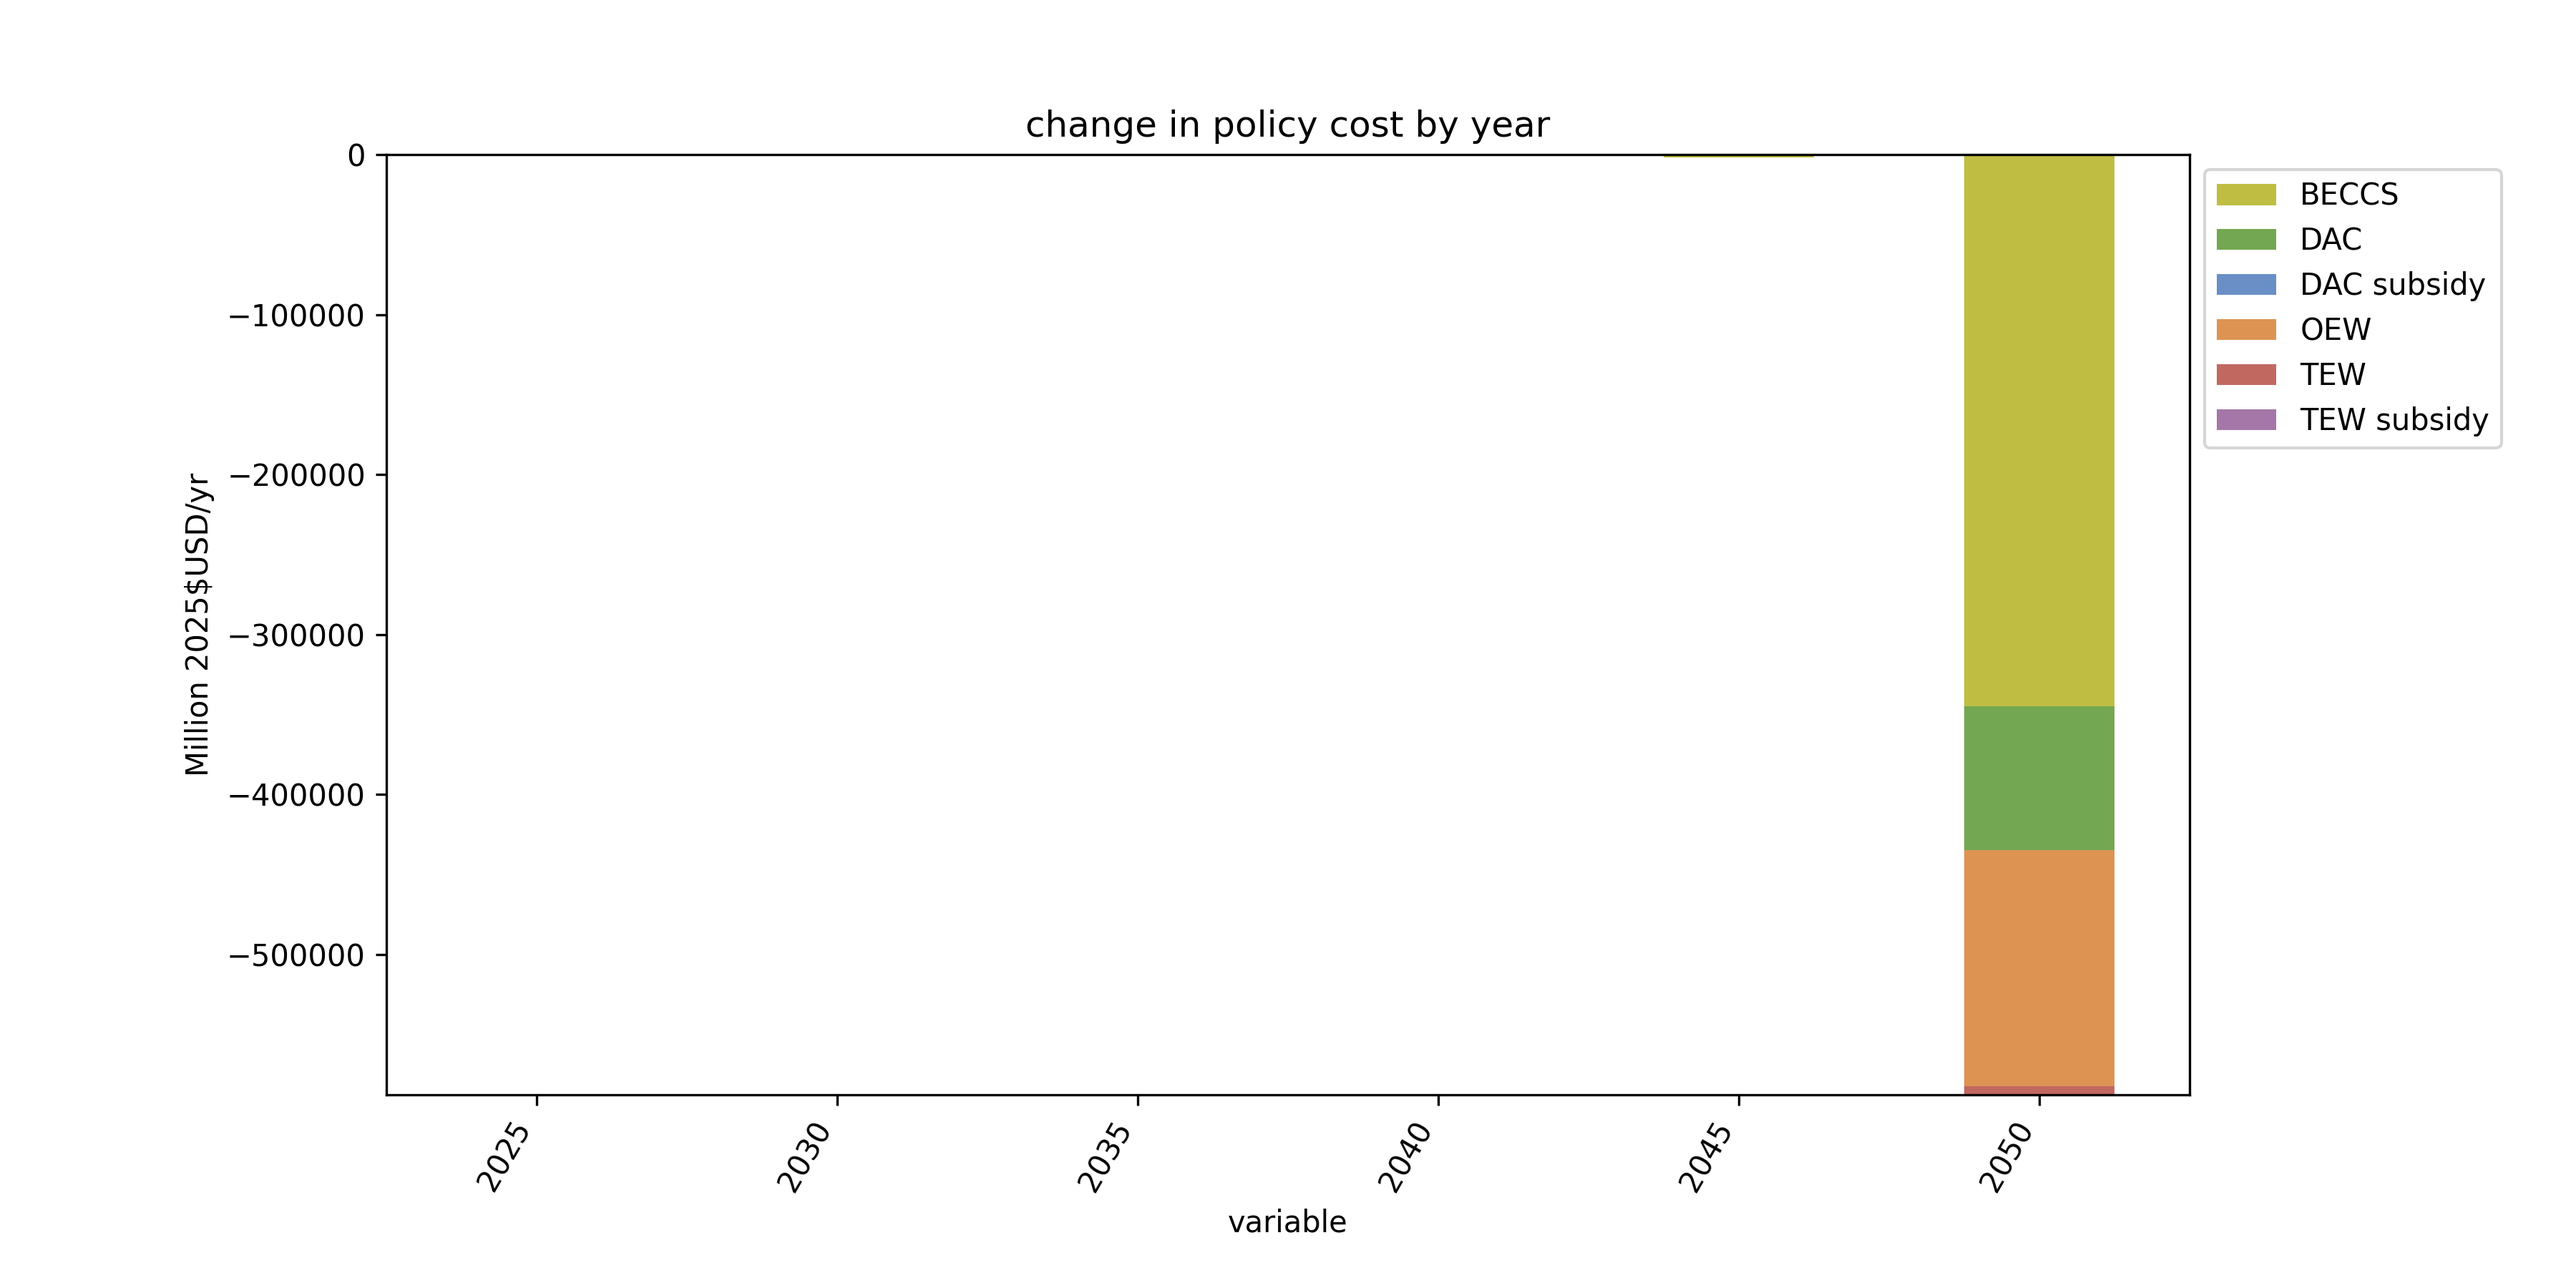
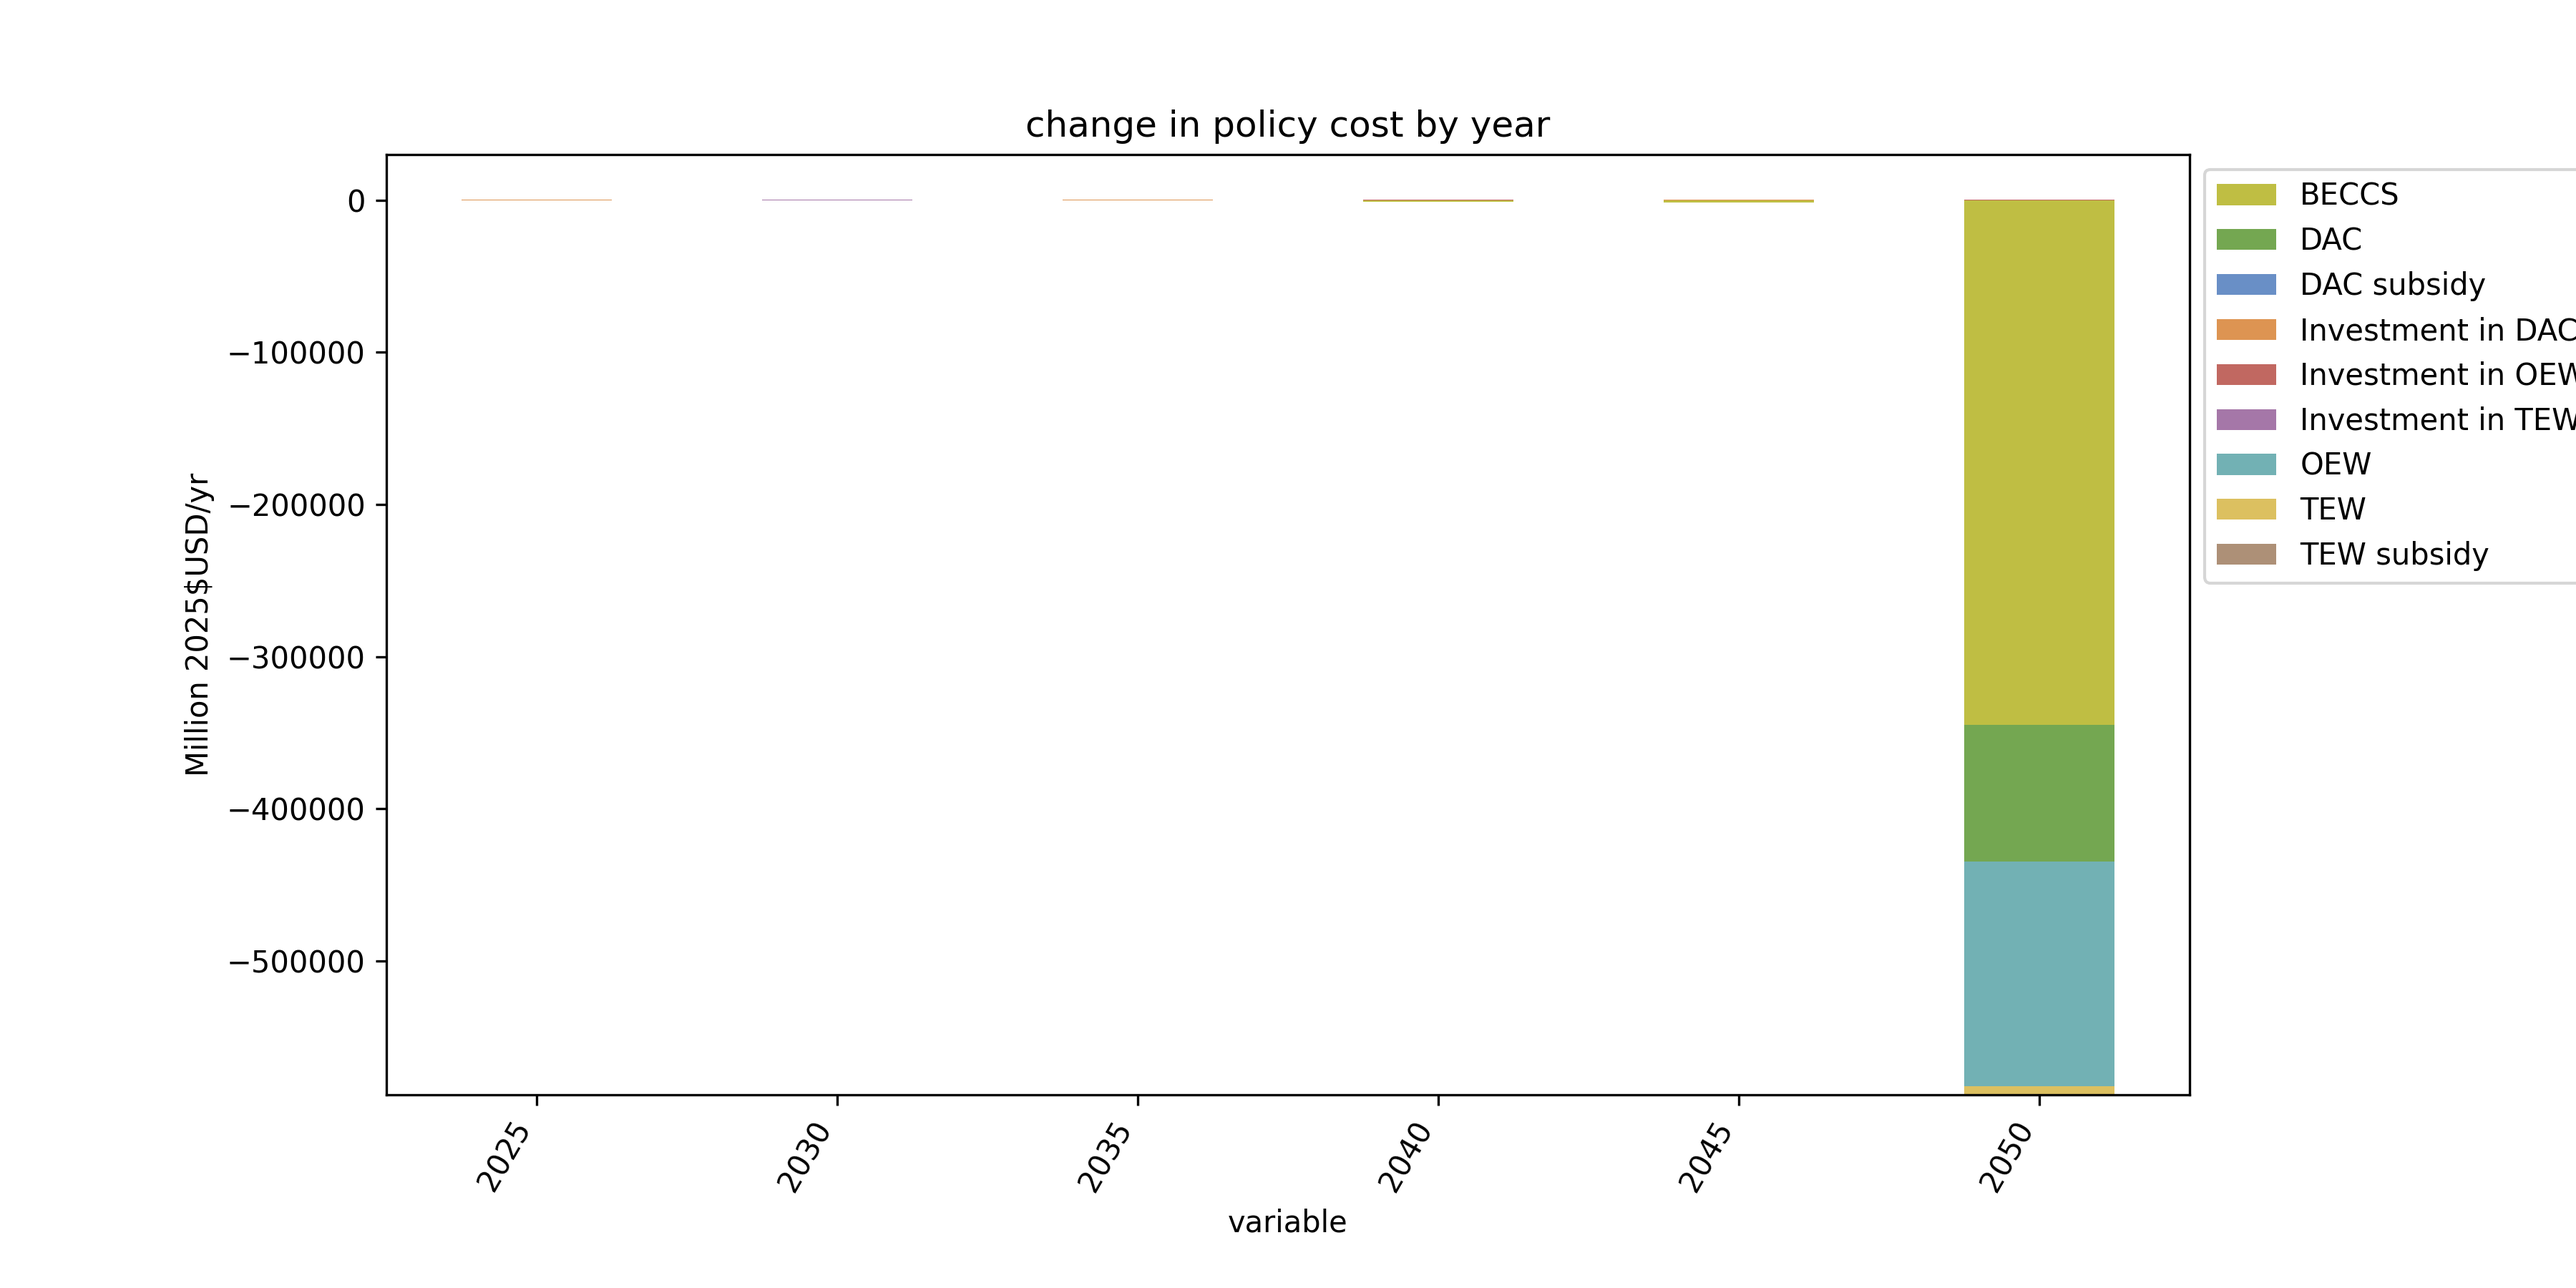
investment costs added to CDR cost method

diff --git a/plotting_script.py b/plotting_script.py
@@ -119,6 +119,12 @@ def CDR_cost(config_fname, year):
     dataframe['baseline'] = baseline
     dataframe['product'] = dataframe.apply(lambda row: row["product_price"] + " " + row["technology_price"] if row["technology_price"] != "missing" else row["product_price"], axis=1)
 
+    # add exogenous policy costs to the CDR cost dataframes
+    if os.path.exists("./data/gcam_out/" + config_fname + "/exogenous_subsector_investment" + ".csv"):
+        investments = data_manipulation.get_sensitivity_data([config_fname], "exogenous_subsector_investment", source="not")
+        investments["product"] = "Investment in " + investments["subsector"]
+        dataframe = pd.concat([dataframe, investments])
+
     plotting.plot_stacked_bar_product(dataframe, c.GCAMConstants.plotting_x, "product", "policy cost by year", config_fname)
     dataframe.to_csv("data/data_analysis/supplementary_tables/" + str(config_fname).replace("_", "/") + "/" +
                      "/policy cost by technology.csv")

diff --git a/process_GCAM_data.py b/process_GCAM_data.py
@@ -247,7 +247,7 @@ def main(config_fname):
             df.columns = df.iloc[0].astype(int).astype(str)
             df = df[1:].reset_index().rename(columns={'index': 'subsector'})
             df["Units"] = "Million 2025$USD"
-            df.to_csv(prefix+dir+"/"+x.data_files["exogenous_investment"].split("/")[-1])
+            df.to_csv(prefix+dir+"/"+ "exogenous_subsector_investment" + suffix)
 
 
 if __name__ == '__main__':
